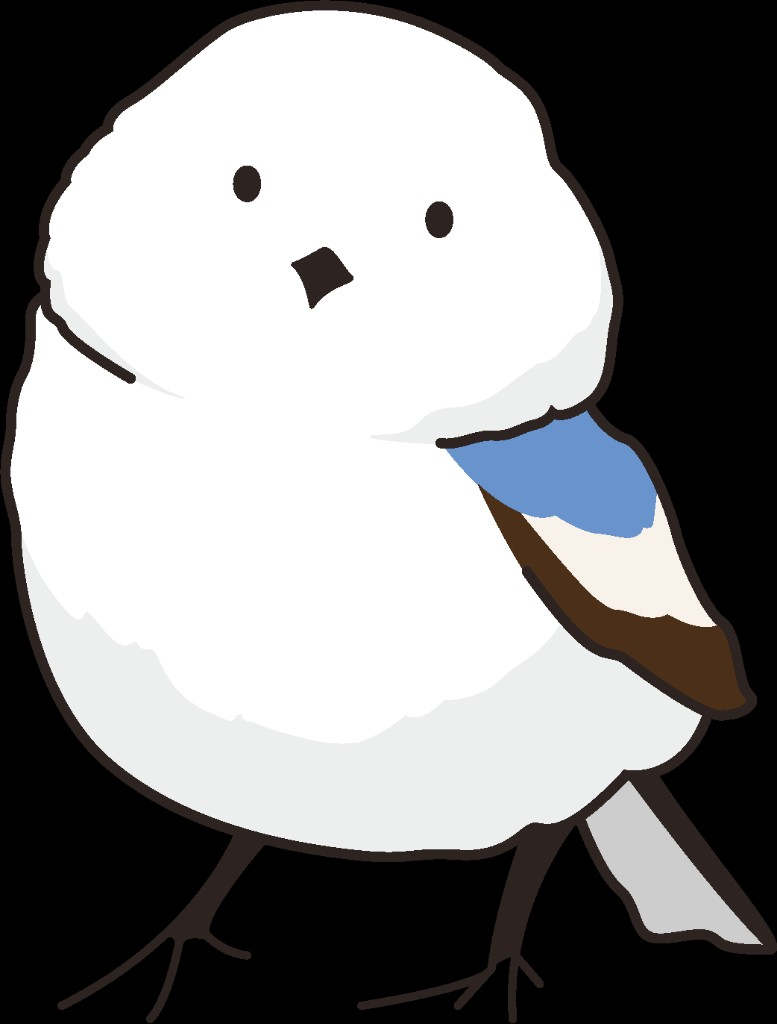
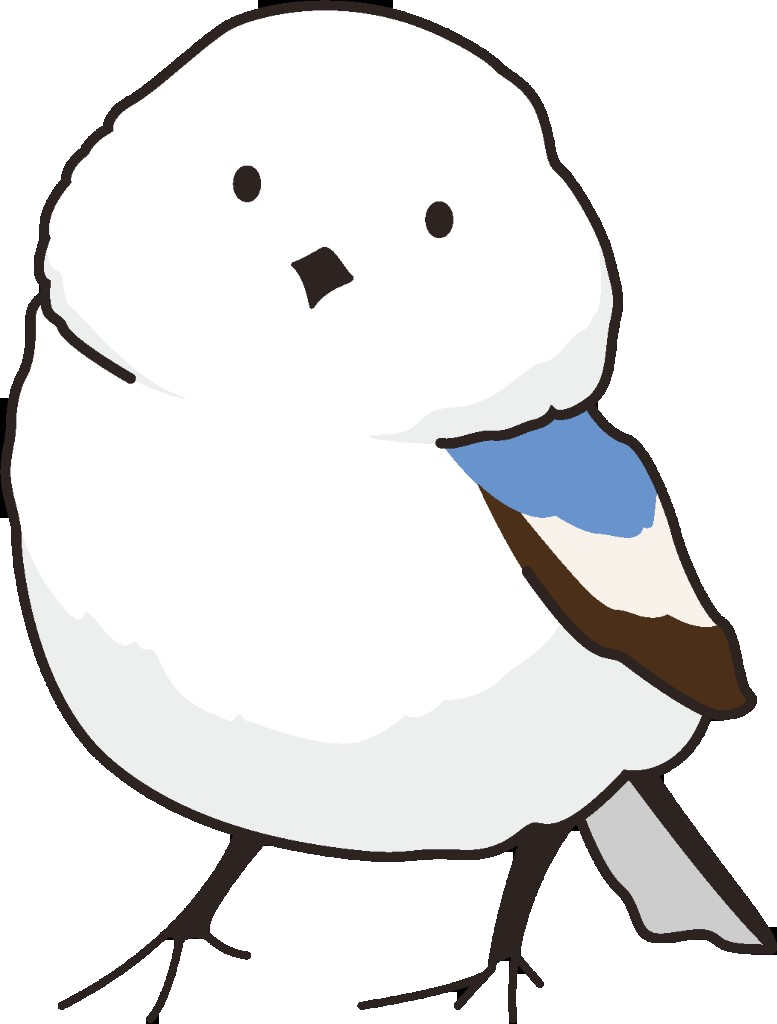
update

diff --git a/css/style.css b/css/style.css
@@ -236,10 +236,12 @@ h3 {
   object-fit: contain;
   display: inline-block !important;
   vertical-align: middle;
+  border-radius: 10px;
+  background: #fff;
 }
 
 .site-icon-prometheus {
-  border-radius: 6px;
+  border-radius: 10px;
   object-fit: cover;
   background: #000;
 }
